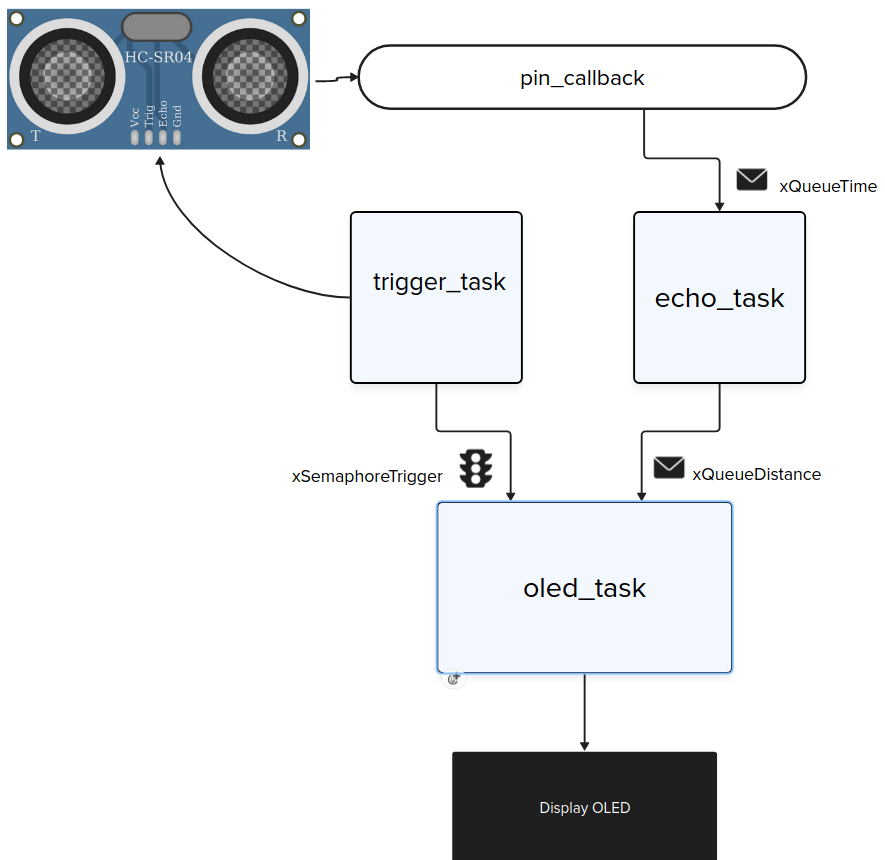
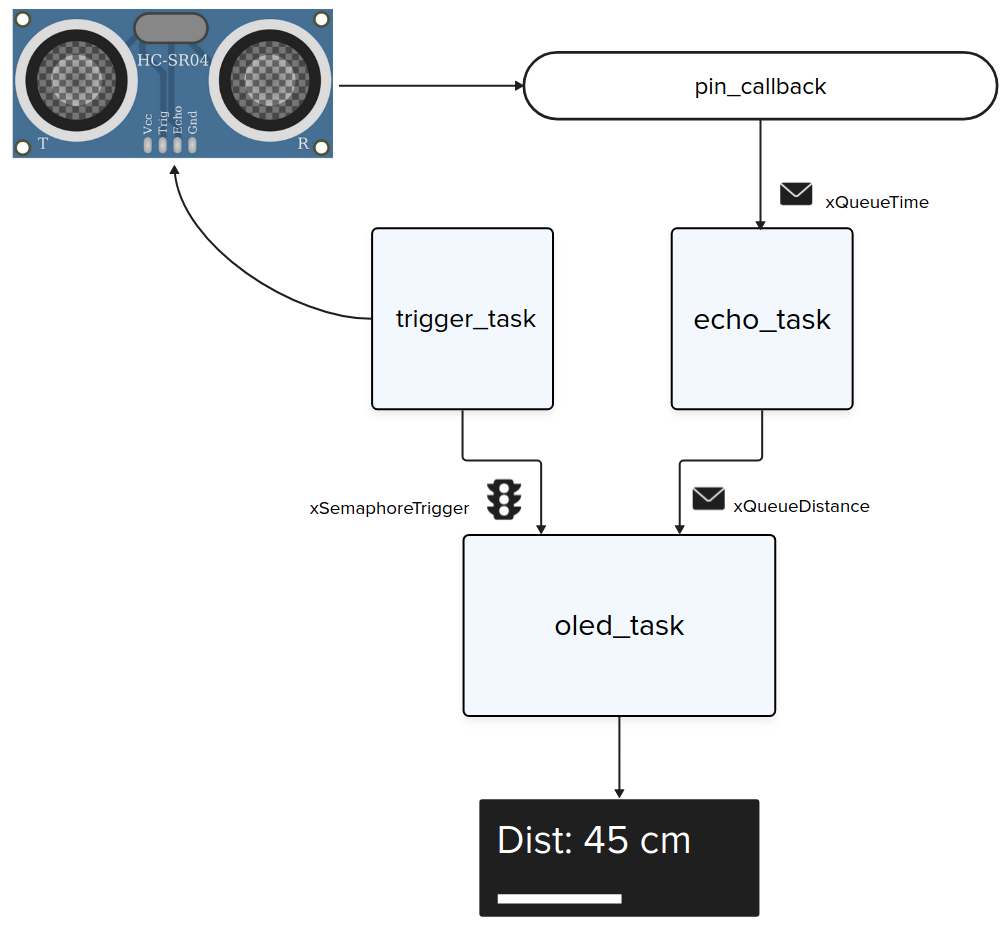
Deployed 99dd6cf with MkDocs version: 1.5.3

diff --git a/labs/rtos-pra-lab/index.html b/labs/rtos-pra-lab/index.html
@@ -658,18 +658,35 @@
 <a id="__codelineno-0-11" name="__codelineno-0-11" href="#__codelineno-0-11"></a><span class="p">}</span>
 </code></pre></div>
 <h2 id="praticando">Praticando</h2>
-<p>Vamos mexer novamente com o sensor de <code>ultrassom</code>, só que agora iremos estruturar o código para operar com <code>rtos</code> e exibir o resultado no OLED. Siga a estrutura defina em sala com o professor.</p>
+<p>Vamos mexer novamente com o sensor de <code>ultrassom</code>, só que agora iremos estruturar o código para operar com <code>rtos</code> e exibir o resultado no OLED. </p>
+<div class="admonition info">
+<p class="admonition-title">Info</p>
+<p>Você deve seguir necessáriamente a estrutura proposta a seguir</p>
+</div>
 <p>A estrutura do código que deve ser entrega, deve seguir o diagrama a seguir, onde:</p>
 <ul>
-<li><code>pin_callback</code>: Funcao callback do pino do echo.</li>
+<li><code>pin_callback</code>: Função callback do pino do echo.</li>
 <li><code>trigger_task</code>: Task responsável por gerar o trigger.</li>
-<li><code>echo_task</code>: Task que faz a leitura do tempo que o pino <code>echo</code> ficou levantado.<ul>
-<li><code>xQueueTime</code>: Fila com informação do tempo <code>to_us_since_boot</code></li>
+<li><code>echo_task</code>: Task que faz a leitura do tempo que o pino <code>echo</code> ficou levantado.</li>
+<li><code>oled_task</code>: Task que exibe a informação da distancia no display.<ul>
+<li>Faz uso de dois recursos, <code>xSemaphoreTrigger</code> e <code>xQueueDistance</code></li>
 </ul>
 </li>
-<li><code>oled_task</code>: Task que exibe a informação da distancia no display.</li>
+</ul>
+<p>Recursos:</p>
+<ul>
+<li><code>xQueueTime</code>: Fila com informação do tempo <code>to_us_since_boot</code></li>
+<li><code>xSemaphoreTrigger</code>: Avisa o OLED que uma leitura foi disparada</li>
+<li><code>xQueueDistance</code>: Valor da distância em cm lido pela <code>task_echo</code></li>
 </ul>
 <p><a class="glightbox" href="../imgs/lab-rtos-pra.png" data-type="image" data-width="auto" data-height="auto" data-desc-position="bottom"><img alt="" src="../imgs/lab-rtos-pra.png" /></a></p>
+<h3 id="display">Display</h3>
+<p>Você deve exibir no display:</p>
+<ul>
+<li>Se o sensor falhou</li>
+<li>O valor da distância, quando executada</li>
+<li>Uma barra que representa a distância</li>
+</ul>
 
 
 </section>
